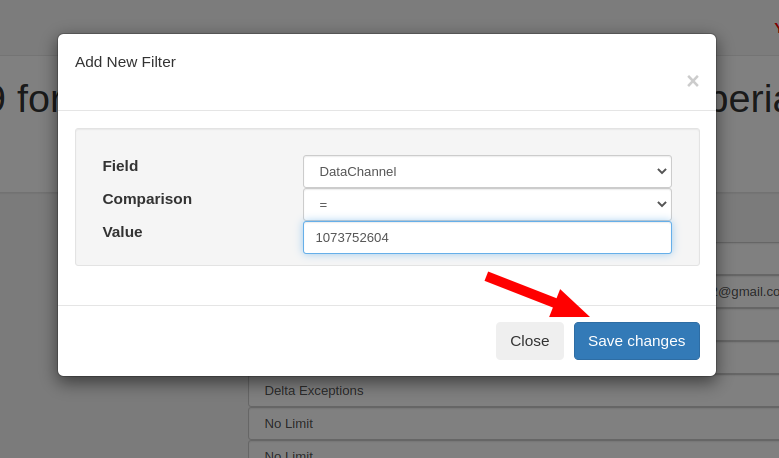
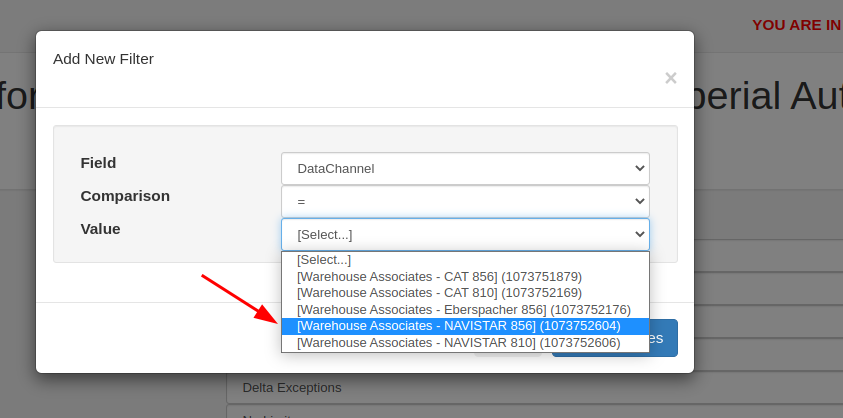
New updates were added. (Datachannel filter Dropdown)

Changed region(s): [[0.0, 0.0311, 1.0, 1.0], [0.2465, 0.6531, 0.2773, 0.7153]]

diff --git a/src/guide/steps.md b/src/guide/steps.md
@@ -122,6 +122,9 @@ One or more filters can be added for each alert. For example, we will only searc
  ![](/img/steps/add_filter.png)
  <img :src="$withBase('/img/steps/add_filter.png')">
 
+  ![](/img/steps/add_filter_save.png)
+ <img :src="$withBase('/img/steps/add_filter_save.png')">
+
 We will verify that the new filter was added. Then we press the _Submit_ button to save the changes
 
  ![](/img/steps/save_changes.png)
@@ -167,3 +170,11 @@ In order for Delta to only send notifications for documents processed with **err
 **3) Both (Default)**
 
 In order for delta to send notifications of documents processed successfully and documents processed with errors, no additional filters need to be added as Delta will send these two types of notification by default. 
+
+### 7.2 DataChannel filter
+_2022-12-13_ "DataChannel-filter", A dropdown menu with all available "Data Channels" has been implemented. _[channel name](data channel id)_.
+
+In this way the user will be able to select an available data channel without having to add it manually.
+
+![](/img/others/datachannel_update.png)
+ <img :src="$withBase('/img/others/datachannel_update.png')">
